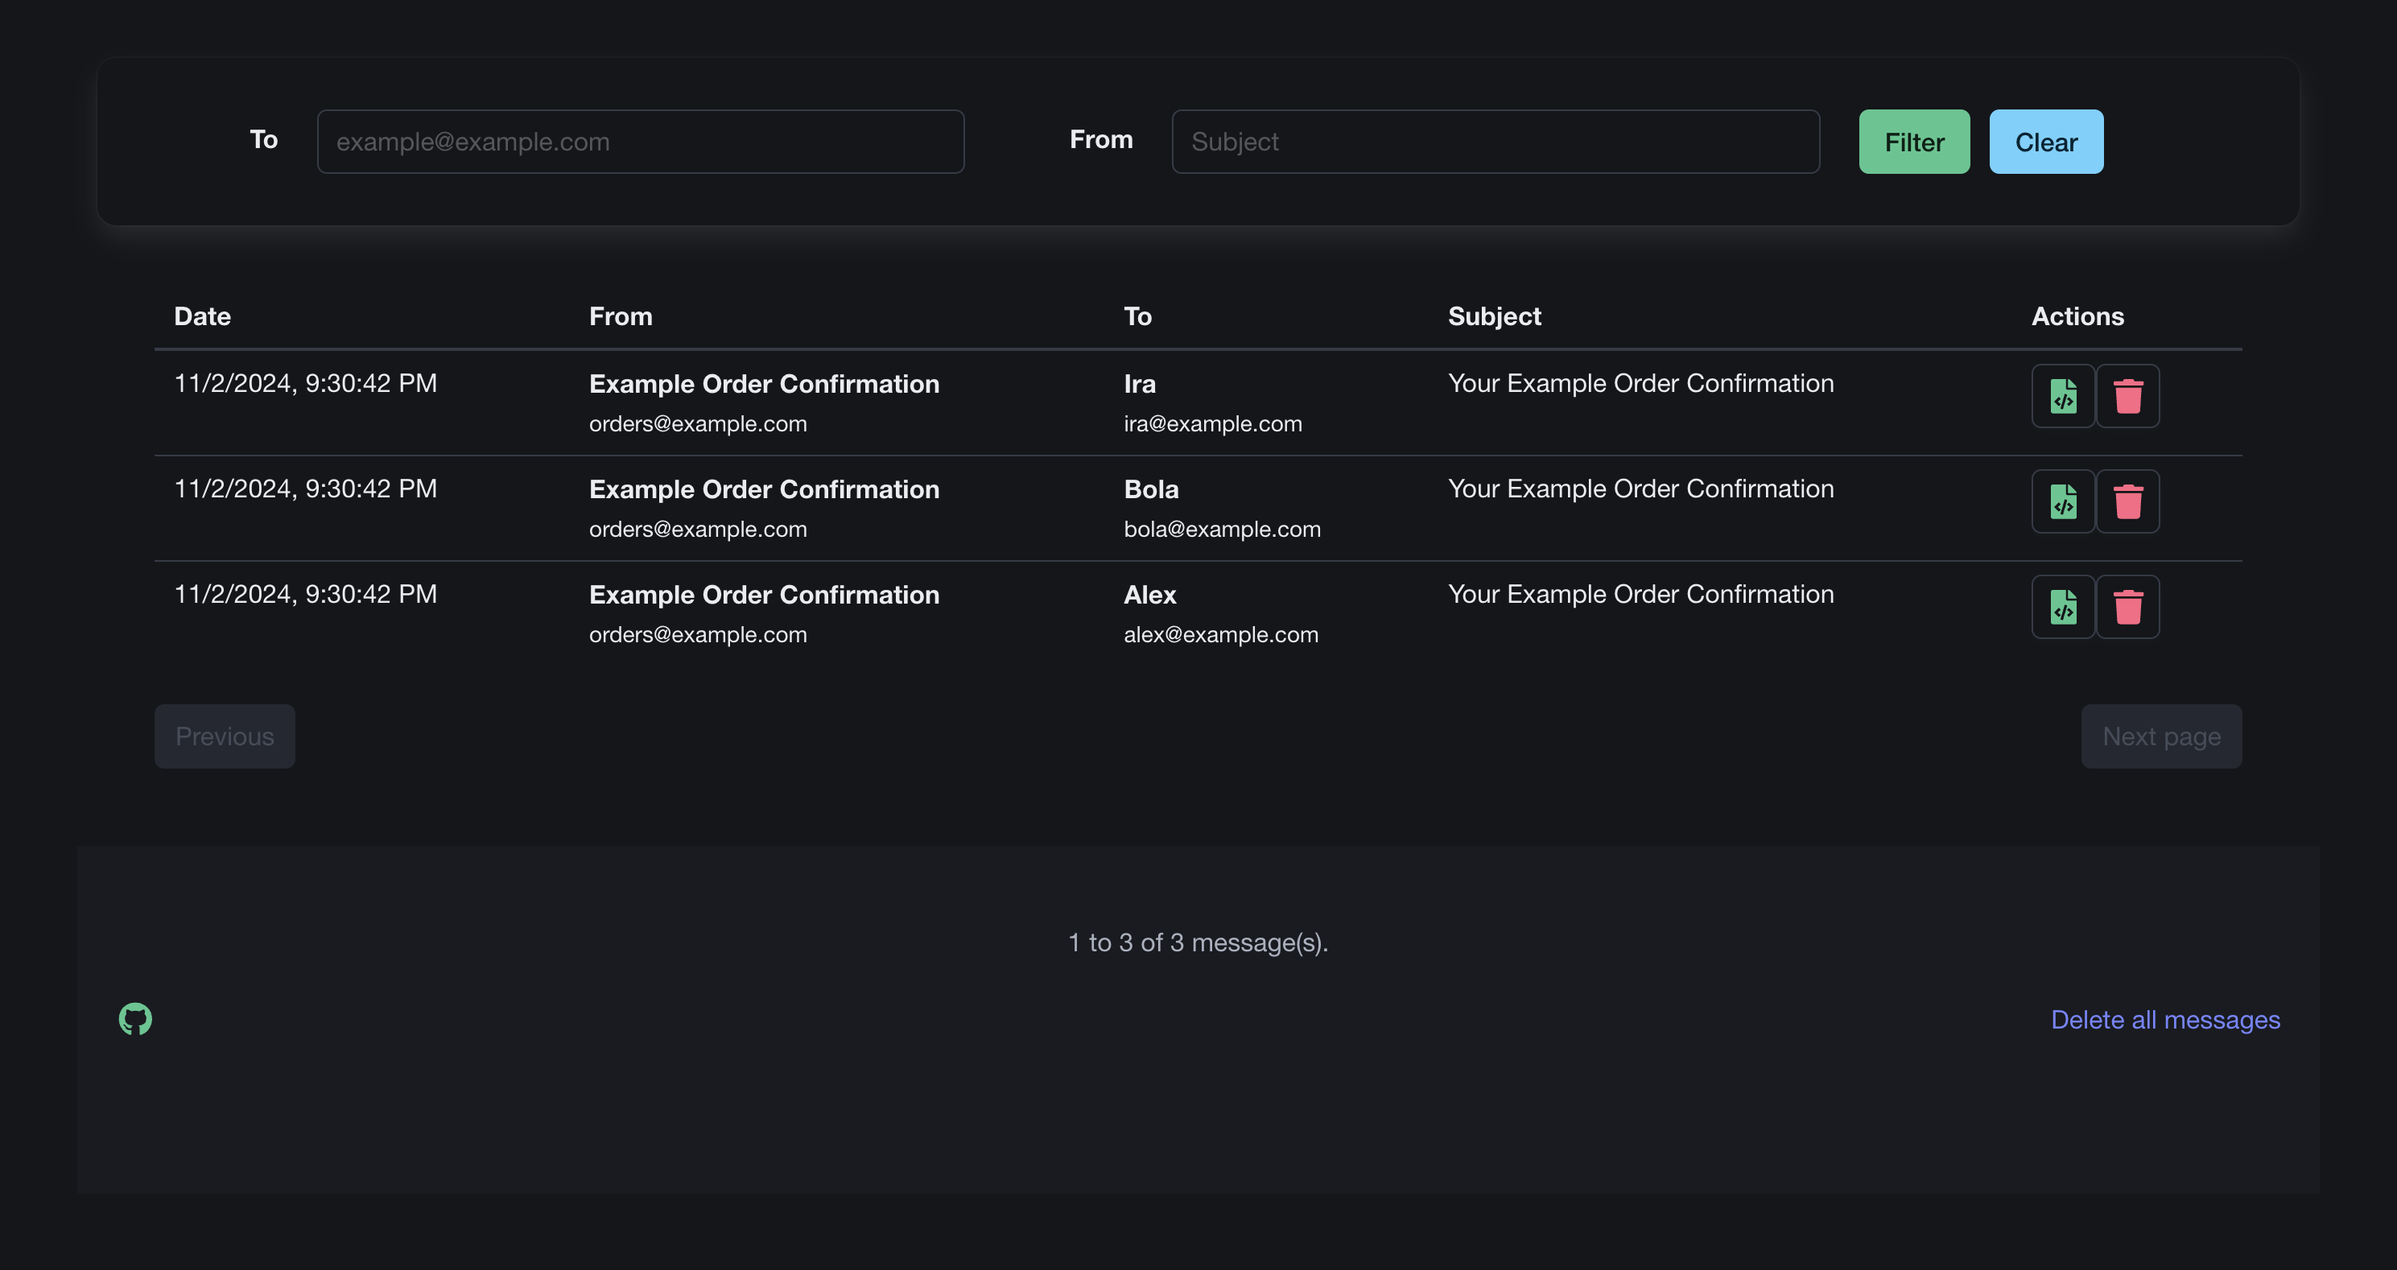
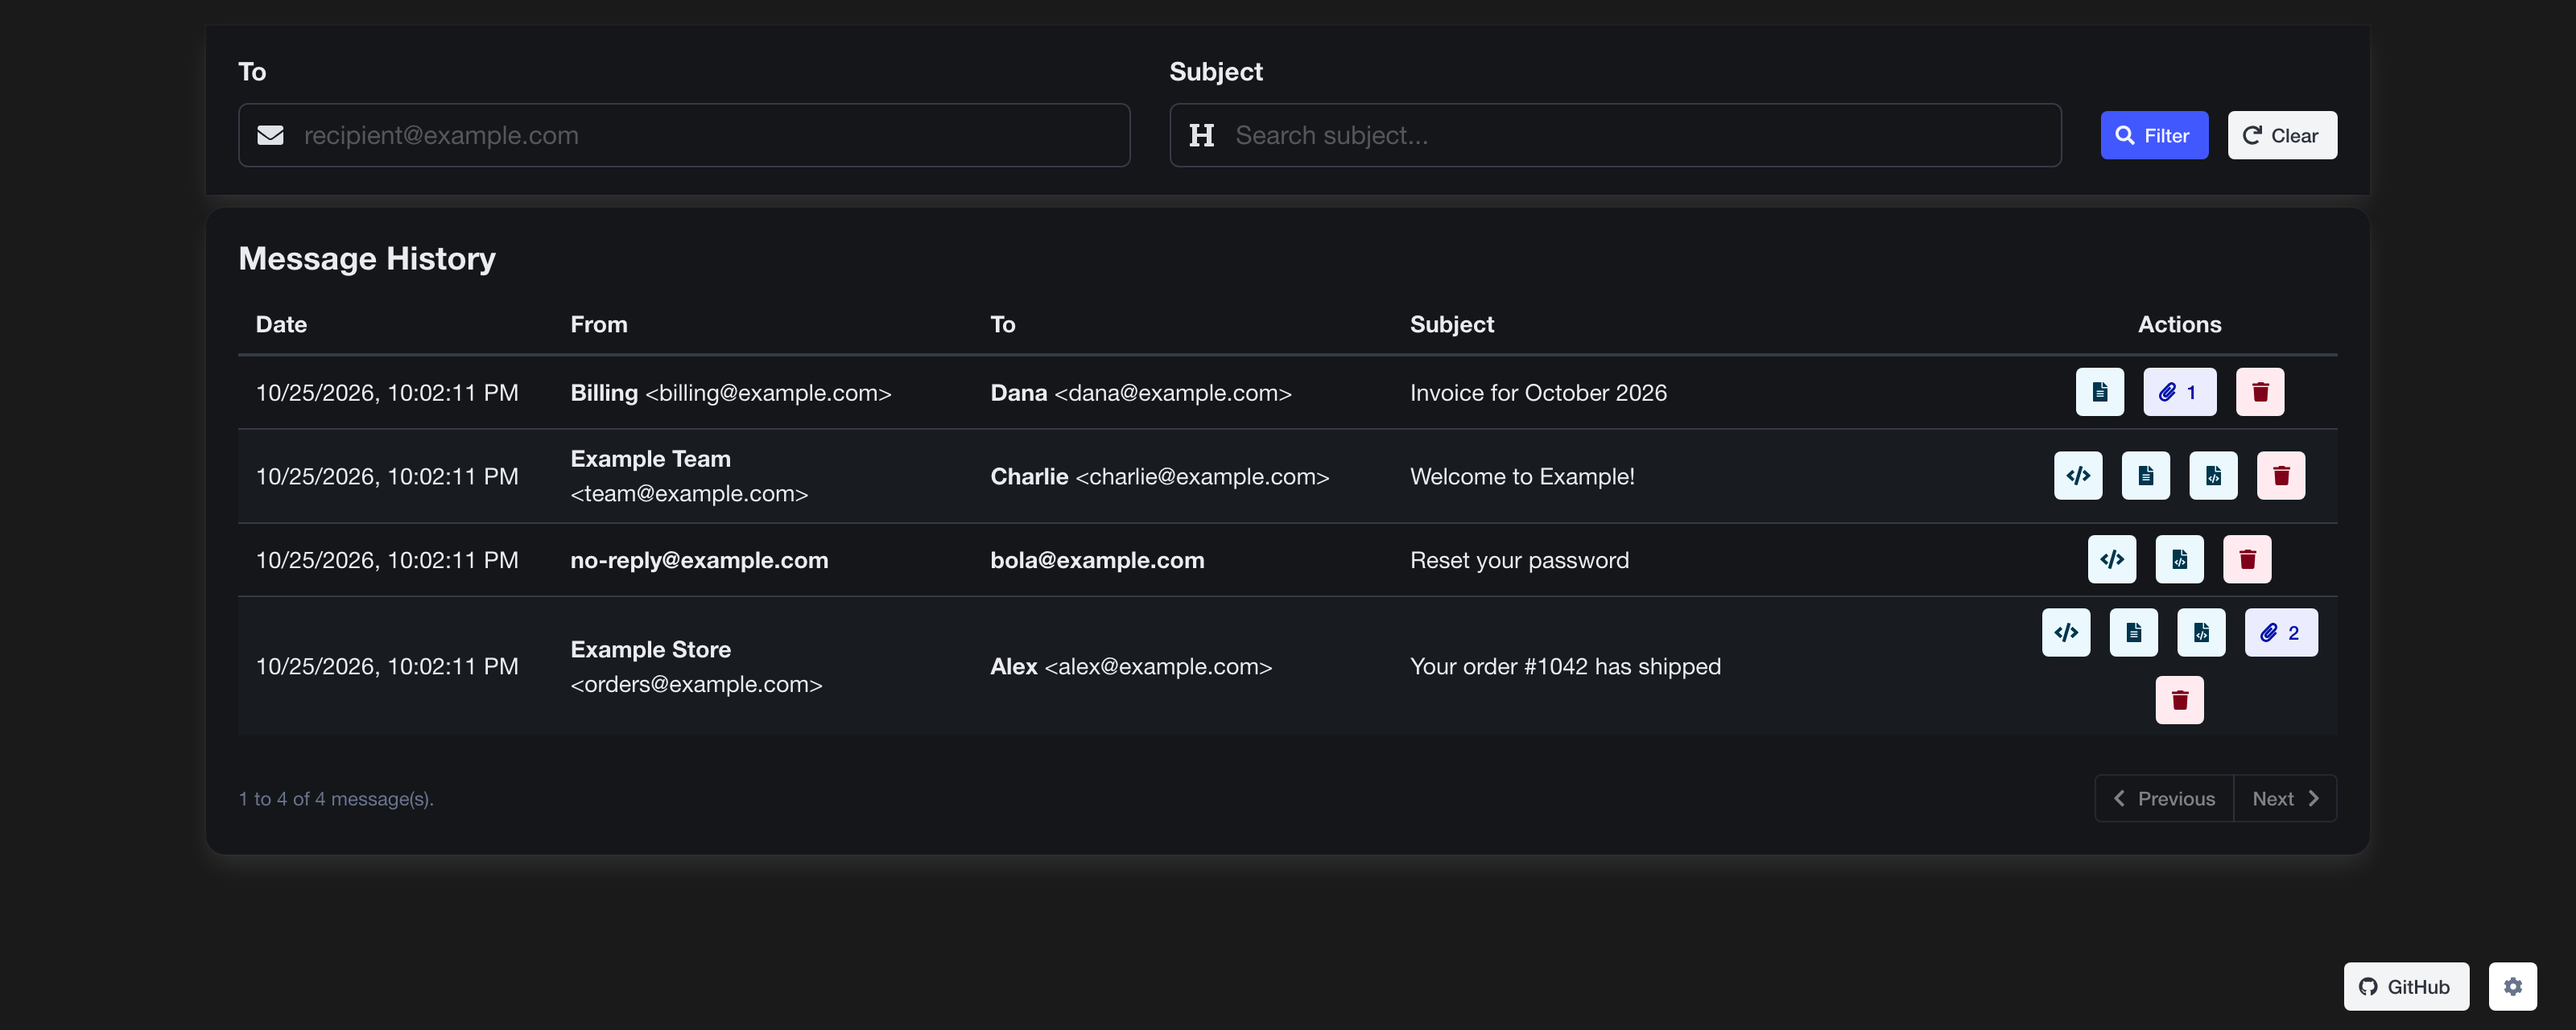
docs: update README and screenshot
Bring the README in line with the current service. The UI section now
lists the real features (filtering, pagination, content views,
attachments, delete, theme switch) and the screenshot is refreshed to
match.

The send endpoint was documented as /v3/main/send but is served at
/v3/mail/send, so the path is corrected. The API section now covers
auth, response codes, the attachment, link tracking and health
endpoints, the raw format, the JSON error shape, and default values.
Configuration gains WEB_STATIC_FILES, and the Running section adds
instructions for source builds and a curl example.

diff --git a/README.md b/README.md
@@ -5,28 +5,49 @@
 Provides a service that simulates the sending mail endpoint provided by SendGrid API that may only be used for
 development purposes.
 
-It contains a simple UI where you can see all received mails, delete or check its content.
+It contains a simple UI where you can:
+
+* list received mails, filtering by recipient and subject, with pagination;
+* view the HTML, text or raw HTML content of a mail;
+* list and download attachments;
+* delete a single mail or all of them;
+* switch between light, dark or automatic theme.
 
 ![UI Screenshot](screenshot.png)
 
 ## API
 
-* `POST /v3/main/send`: SendGrid like sending mail endpoint
+* `POST /v3/mail/send`: SendGrid like sending mail endpoint
+  * Requires the `Authorization: Bearer <API_KEY>` header
+  * The request body is validated against the SendGrid mail send schema
+  * Returns `202 Accepted` with the `X-Message-Id` header
 * `GET /messages`: search persisted messages
   * Query parameters:
     * `to`: filter by to address (accepts `%` wildcard)
     * `subject`: filter by subject (accepts `%` wildcard)
     * `page`: paginate results starting from `0`
-    * `rows`: number of rows returned on each page
+    * `rows`: number of rows returned on each page (default `10`)
 * `GET /messages/:event_id`: return message content
   * Path parameter:
     * `event_id`: event identifier
   * Query parameter:
-    * `format`: must be `html` or `text`
+    * `format`: must be one of:
+      * `html`: rendered HTML, with links rewritten to track clicks
+      * `text`: plain text content
+      * `raw`: original HTML source, returned as plain text
+* `GET /messages/:event_id/attachments/:filename`: download an attachment
+  * Path parameters:
+    * `event_id`: event identifier
+    * `filename`: attachment file name
+* `GET /messages/:event_id/links/:encoded_link`: track a click and redirect to the decoded link (used by the rendered
+  HTML content)
 * `DELETE /messages/:event_id`: delete message
   * Path parameter:
     * `event_id`: event identifier
 * `DELETE /messages`: delete all messages
+* `GET /health`: health check
+
+Errors are returned as JSON describing the failed field, the reason and a hint on how to fix it.
 
 ## Events
 
@@ -37,25 +58,52 @@ There is a basic support for events, currently sending (when enabled) one of the
 * **open**: when mail content is retrieved through the `GET /messages/:event_id` endpoint;
 * **click**: when a link is clicked in the rendered content;
 
+Each event includes the message `custom_args` and categories.
+
 ## Configuration
 
 There are some customization possibles, all of them are defined by using the system environment.
 
-* **API_KEY**: Used to authenticate the sending mail endpoint;
+* **API_KEY**: Used to authenticate the sending mail endpoint, defaults to `mock.luPzMYLzMTWJqMLCO37ZJRmPllQ7ct78`;
 * **EVENT_DELIVERY_URL**: when defined, it used for event sending;
-* **MAIL_HISTORY_DURATION**: duration, using Golang pattern, which is used to delete messages older than that duration;
+* **MAIL_HISTORY_DURATION**: duration, using Golang pattern, which is used to delete messages older than that duration,
+  defaults to `24h`;
 * **STORAGE_FILE**: when defined, instead of creating a randomized temporary file, the given file name will be used;
 * **BLOCK_DELETE_ALL**: when value is `true`, deleting all messages will not be allowed;
 * **EVENT_TIMESTAMP_DELAY**: duration, using Golang pattern, which is used to add extra time to the events;
+* **WEB_STATIC_FILES**: directory with the UI static files, defaults to `./web/`;
 
-## Container (Docker)
+## Running
+
+The service listens on port `3000`.
+
+### Container (Docker)
 
 ```shell
 docker run -p 3000:3000 --rm ghcr.io/rapatao/sendgrid-mock:${version:-latest}
 ```
 
+### From source
+
+Requires Go and a C compiler (CGO is used by SQLite).
+
+```shell
+make run
+```
+
+### Sending a message
+
+```shell
+curl -X POST "http://localhost:3000/v3/mail/send" \
+  -H "Authorization: Bearer mock.luPzMYLzMTWJqMLCO37ZJRmPllQ7ct78" \
+  -H "Content-Type: application/json" \
+  --data '{"personalizations": [{"to": [{"email": "alex@example.com"}]}], "from": {"email": "orders@example.com"}, "subject": "Hello", "content": [{"type": "text/html", "value": "<p>Hello!</p>"}]}'
+```
+
+More examples are available in the [scripts](scripts) directory.
+
 ## Notes
 
-This service/repository should not be used as a studying reference since it isn't using any good development practice,
-neither have tests implemented. It was built with the intention to provide a service that should be used for development
+This service/repository should not be used as a studying reference since it isn't using good development practices
+and has limited test coverage. It was built with the intention to provide a service that should be used for development
 purposes only.
